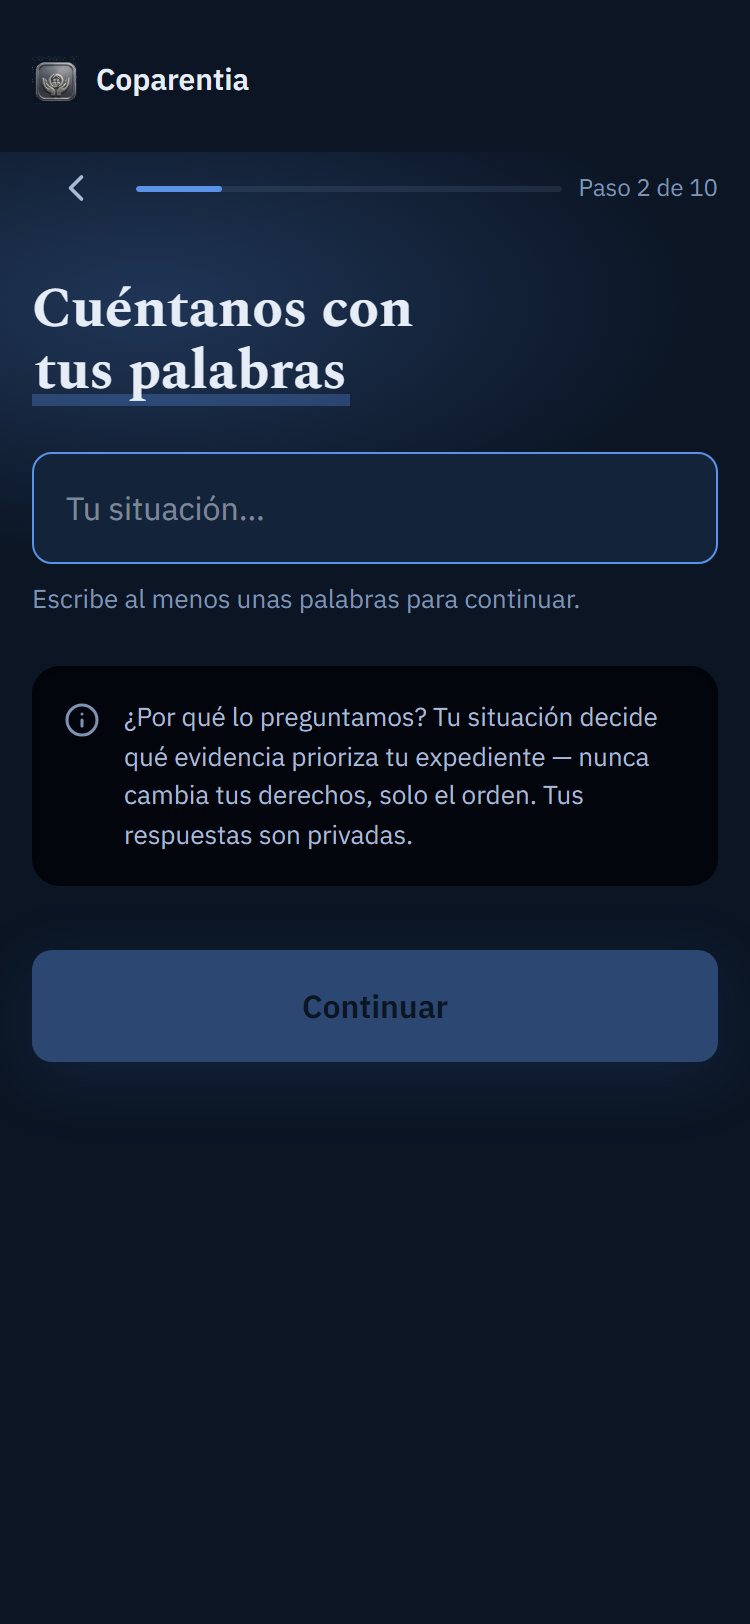
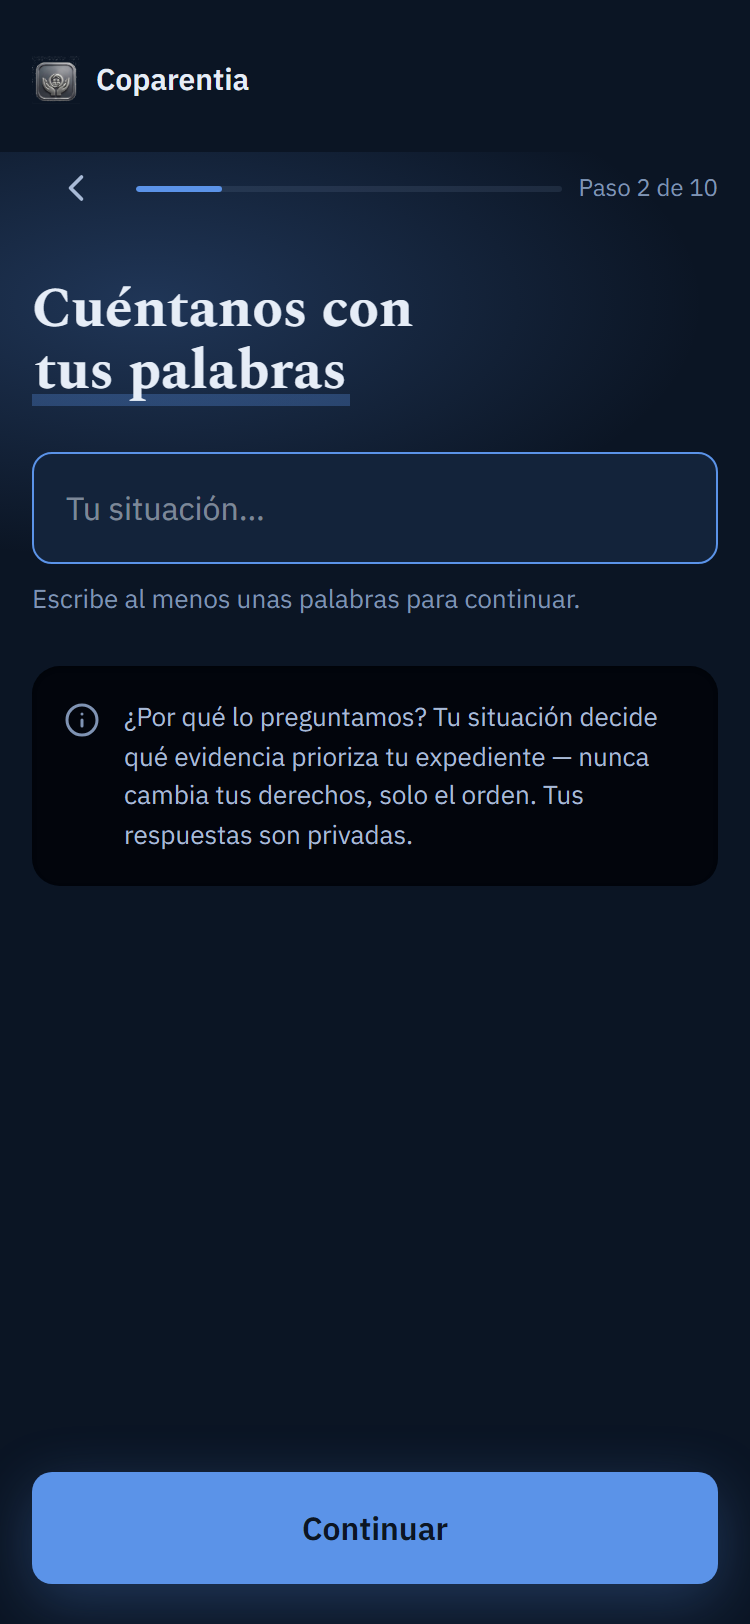
docs: onboarding — craft pasa (16/20), techo estructural de usabilidad CONFIRMADO
El revisor confirmo los locales cerrados. La usabilidad (30/40) sigue
bajo el 36 puramente por composicion estructural: el tercio inferior de
una pantalla de 2-4 opciones sin CTA queda vacio y no hay contenido
honesto que poner. Recomendacion del propio revisor: documentar y
avanzar. Cerrar ese tramo es decision de producto (pie funcional), no
pulido.

Changed region(s): [[0.0307, 0.8929, 0.9813, 1.0], [0.0307, 0.585, 0.9813, 0.6773]]

diff --git a/ESTADO.md b/ESTADO.md
@@ -49,9 +49,9 @@ funnel · `<Halo>`/`<Marcador>` implementados en funnel/onboarding/inicio/paywal
    `--shadow-1: 0 1px 2px` es casi invisible → `<Tarjeta>` se lee plana sobre fondo plano.
 
 **Puntajes vigentes del revisor (gate: ≥36/40 y ≥16/20):** landing **37/40·17/20·copy 18/20 →
-✅ LISTA (2026-09-10)** · onboarding 30/40·15/20 (NO LISTA, ver Problemas conocidos) · paywall
-33/40·15/20·copy 16/20 (NO LISTA, ver Problemas conocidos) · pantalla-principal 28/40·16/20
-(craft pasa, usabilidad NO — ver Problemas conocidos).
+✅ LISTA (2026-09-10)** · onboarding 30/40·**16/20** (craft PASA; usabilidad NO — techo estructural
+CONFIRMADO, ver Problemas conocidos) · paywall 33/40·15/20·copy 16/20 (NO LISTA, ver Problemas
+conocidos) · pantalla-principal 28/40·16/20 (craft pasa, usabilidad NO — ver Problemas conocidos).
 
 **CAPA 0 (tokens) y CAPA 1 (kit de la app interna): APLICADAS Y VERIFICADAS** (usuario eligió
 "Capa 0 + 1 primero"). `tsc` ✓ · `build` ✓ · vistas renderizadas a 375px en el preview real.
@@ -1265,7 +1265,23 @@ FICHA-ARTE.md que la landing.
 
 ## Problemas conocidos
 
-### veredicto onboarding — NO LISTA, techo estructural identificado (6 rondas de revisión)
+### veredicto onboarding — NO LISTA, **techo estructural CONFIRMADO** (9 rondas de revisión)
+> ⚠ **ACTUALIZADO 2026-09-10.** Estado vigente: **Usabilidad 30/40 · Craft 16/20 (YA PASA) ·
+> Copy N/A · NO LISTA.** El craft alcanzó el gate tras alinear los springs (bounce 0.4→0.12) a la
+> Motion signature de la ficha. La usabilidad sigue 6 puntos bajo el 36 y el revisor lo desglosó
+> así en su última pasada: **los defectos locales están cerrados** (layout unificado en las 6
+> pantallas de opciones con `<PantallaChips>`, glow de acento fuera de los chips, CTA de "Otra
+> cosa" nunca disabled, emoji ⚡ reemplazado por SVG, caja de Rol recortada). **Lo que impide
+> llegar a 36 es composición estructural**: el tercio inferior de una pantalla de 2-4 opciones SIN
+> CTA queda vacío ~35-40% del viewport, y no hay contenido honesto que poner ahí (centrar el
+> bloque recrea el problema de la caja flotante que ya se corrigió). El revisor recomendó
+> explícitamente: **documentar el techo y avanzar.** Cerrar ese último tramo requeriría repensar
+> si esas pantallas llevan un pie funcional (mini-resumen de respuestas, ilustración de serie) —
+> decisión de producto, no de pulido, para otra sesión.
+>
+> El historial de las 6 rondas previas queda abajo por trazabilidad — no como estado vigente.
+
+### (histórico) veredicto onboarding — techo estructural identificado (6 rondas de revisión)
 El revisor-visual independiente evaluó `/onboarding` **6 veces** en esta sesión (más 1 ronda previa
 a esta sesión, para 7 en total). Cada ronda aplicó fixes reales y verificados por el propio
 revisor (escéptico, sin conocer las intenciones de quien construyó la pantalla) — no se repitió

diff --git a/docs/revisiones/onboarding-veredicto.md b/docs/revisiones/onboarding-veredicto.md
@@ -2,13 +2,13 @@
 Fecha: 2026-09-10 00:00
 Screenshot: docs/revisiones/onboarding-rol-v2-375.png
 Usabilidad: 30/40
-Craft: 15/20
+Craft: 16/20
 Copy (si vende): N-A
 Fidelidad (si hubo referencia): N-A
 Veredicto: NO LISTA
 Top defectos:
-1. Todas las pantallas de chips + fondo — la sombra de CADA chip (seleccionado o no) lleva glow azul de acento (shadow ...accent 22%). Contradice FICHA-ARTE ("acento SOLO en CTA/dato/anillo/halo/botón activo") y la restricción anti-IA "sin glow regado" → fix: sombra neutra tintada (rgb 6 12 24) en chips no seleccionados; reservar el realce azul solo para el estado seleccionado.
-2. Pantalla "Otra cosa" (texto libre) — banda vacía de ~300px entre la caja de contexto y el CTA anclado al fondo; se lee "aquí falta algo" → fix: subir el CTA justo bajo el helper/caja de contexto (o bajar la caja con mt-auto pegada al CTA) para cerrar el hueco central.
-3. Tercio inferior de las pantallas de 2-4 chips (sobre todo Rol) — ~31% de la pantalla en vacío bajo la última caja; se percibe sin terminar → mitigar: no estirar el contenido sin CTA a min-h-dvh, o añadir pie sutil "Elige una opción para continuar".
-4. Paso Rol — dos cajas de texto apiladas (contexto + blindaje) tras solo 2 opciones: ruido de lectura en el paso más simple → fix: fusionar en una sola caja o mover el blindaje al reconocimiento posterior.
-5. Motion (código) — springs con bounce 0.35-0.4 en los checks de Chip y Reconocimiento contradicen la Motion signature de FICHA-ARTE ("sin springs agresivos, bounce ~0.08") → fix: bajar bounce a ~0.1 y usar --ease-sereno/--dur-base ya definidos en tokens.css.
+1. Tercio inferior vacío estructural (~35-40% del viewport) bajo la caja de contexto en todas las pantallas de chips; peor en "Rol" (2 chips + 1 caja y nada mas) — techo del tipo de pantalla; documentar o rellenar con contenido de apoyo (mini-timeline del expediente / resumen de respuestas / ilustracion de serie).
+2. Pantalla "Otra cosa": el fix anclo el CTA al bloque pero dejo ~600px muertos DEBAJO del boton — se cambio el hueco central por un vacio inferior igual de grande; anclar el CTA con mt-auto en este paso concreto o subir la caja de contexto con contenido.
+3. Pantalla "Otra cosa": el boton "Continuar" va disabled por defecto (pildora gris muerta) — contradice el ancla "CTA nunca disabled por defecto"; habilitar siempre y validar al click con hint inline.
+4. Paso Meta: la linea de feedback usa el emoji ⚡ como icono (app/onboarding/page.tsx L552) — contradice FICHA-ARTE (emojis como iconos prohibidos) y baja identidad; reemplazar por icono SVG Lucide en chip de acento 12%.
+5. Paso Rol: la caja "¿Por que lo preguntamos?" quedo en ~6 lineas (la fusion del texto de la 2a caja la engroso) — supera la guia de 3-4 lineas por bloque; recortar.
